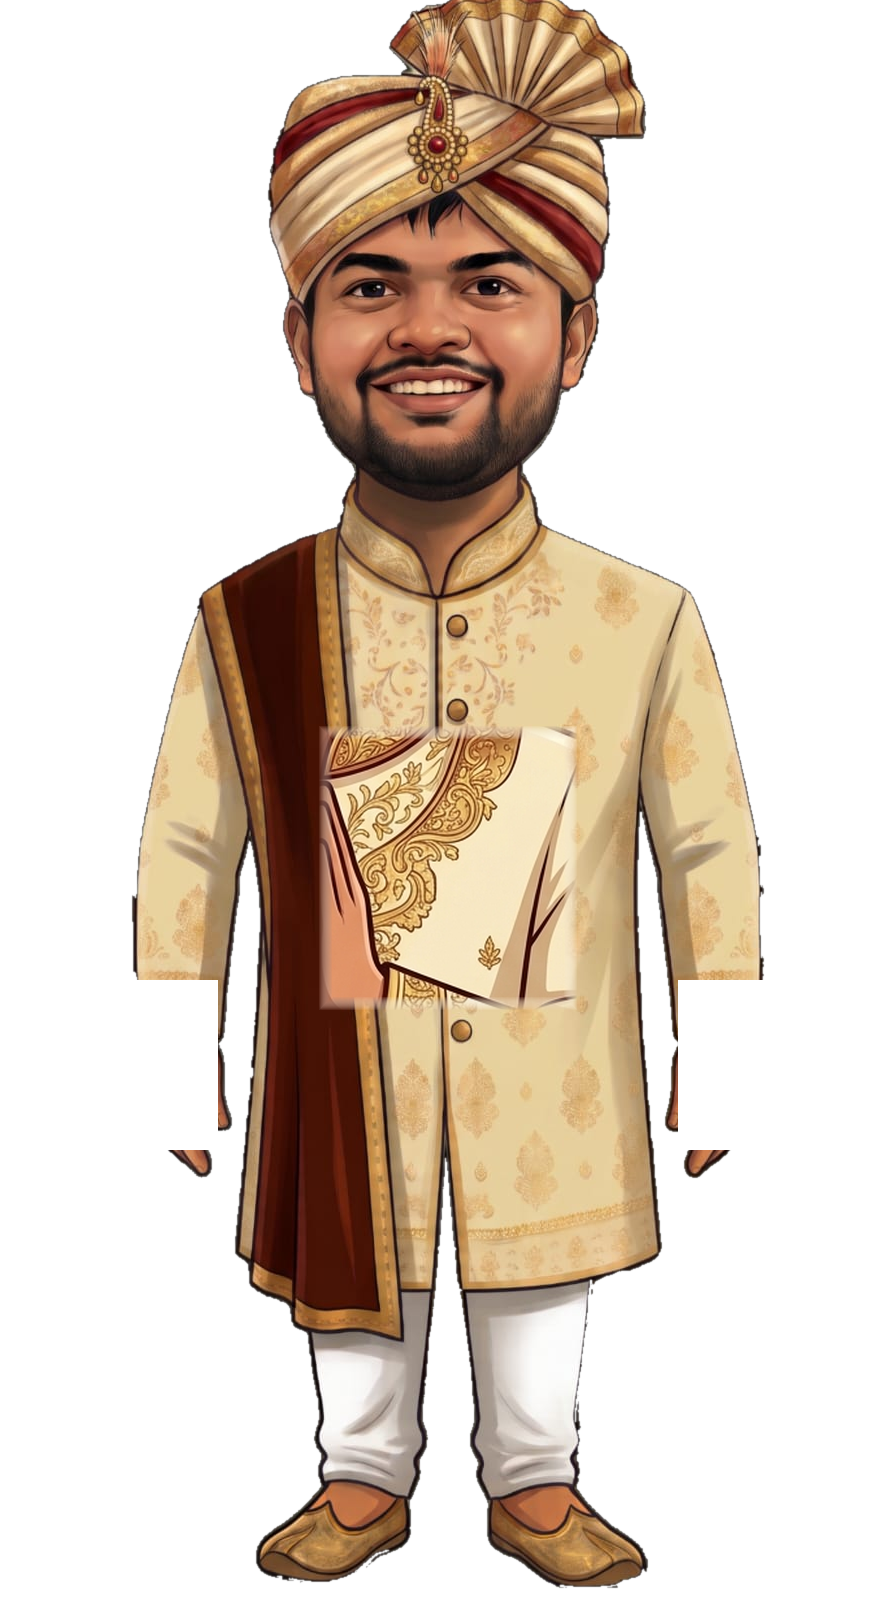
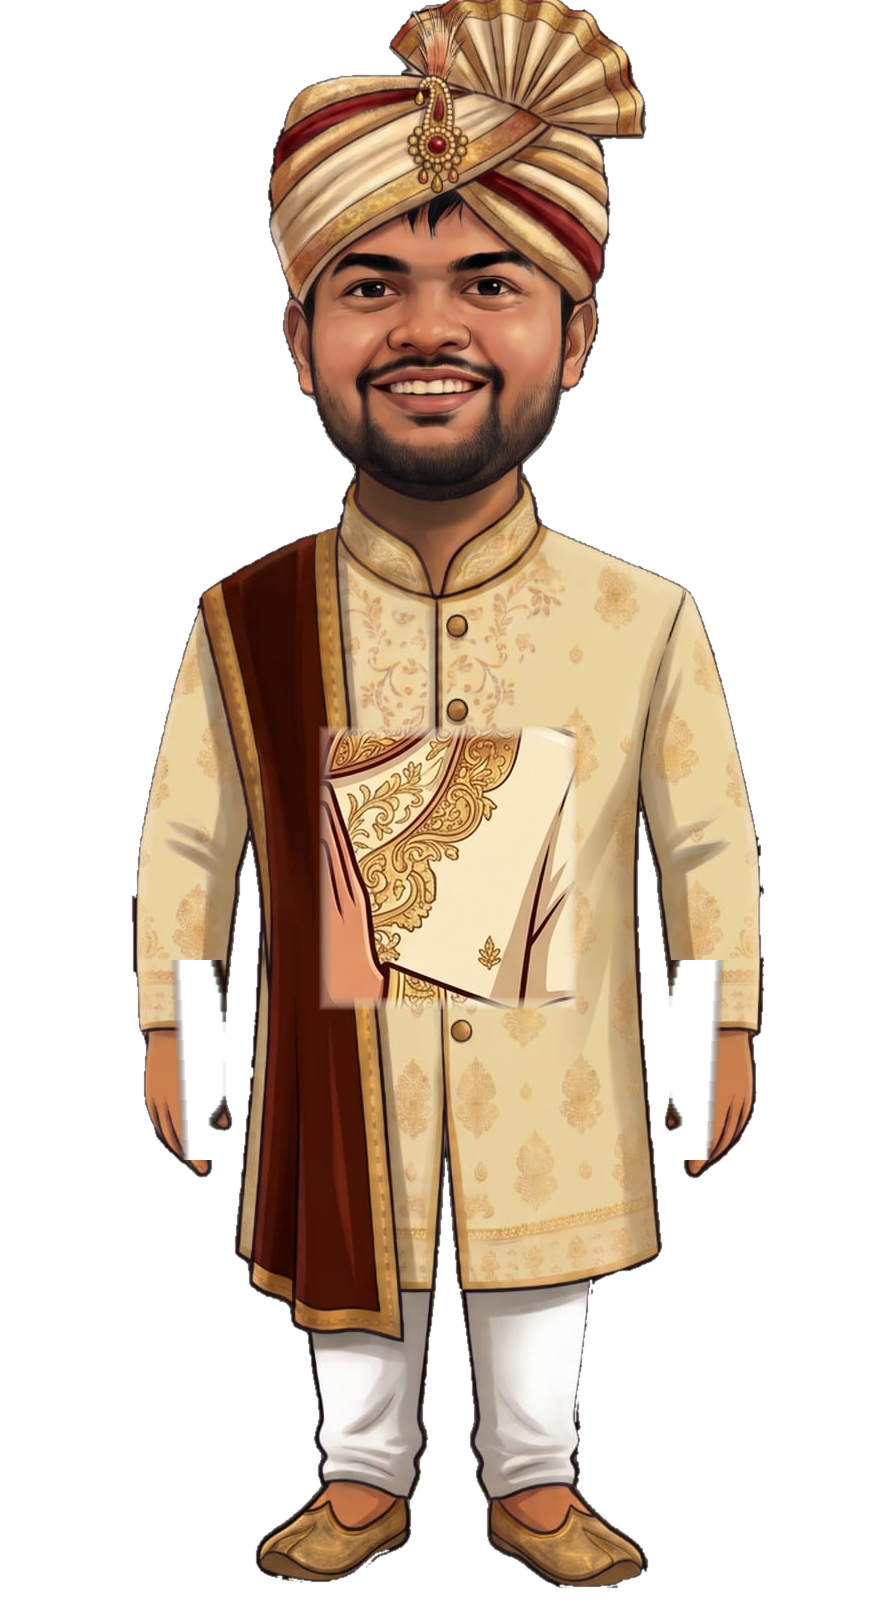
fix: resolve seam cuts, torso notches, and connect authentic couple bow caricature

Changed region(s): [[0.75, 0.5938, 0.875, 0.7188], [0.1562, 0.5938, 0.25, 0.75]]

diff --git a/index.html b/index.html
@@ -759,25 +759,27 @@
 
     @keyframes cinema-waist-bow {
       0% {
-        transform: perspective(700px) rotateX(0deg) translateY(0);
+        transform: translateY(10px) scale(0.97);
+        opacity: 0.95;
       }
       20% {
-        transform: perspective(700px) rotateX(0deg) translateY(0);
+        transform: translateY(0) scale(1);
+        opacity: 1;
       }
       45% {
-        /* Deep, visible welcoming bow from waist */
-        transform: perspective(700px) rotateX(24deg) translateY(30px) scale(0.96);
+        /* Gentle, respectful welcoming bow pulse */
+        transform: translateY(14px) scale(0.98);
       }
       72% {
-        /* Hold the deep welcoming bow */
-        transform: perspective(700px) rotateX(24deg) translateY(30px) scale(0.96);
+        /* Hold respectful welcoming bow */
+        transform: translateY(14px) scale(0.98);
       }
       88% {
-        /* Rise back upright */
-        transform: perspective(700px) rotateX(0deg) translateY(0) scale(1);
+        /* Return smoothly */
+        transform: translateY(0) scale(1);
       }
       100% {
-        transform: perspective(700px) rotateX(0deg) translateY(0) scale(1);
+        transform: translateY(0) scale(1);
       }
     }
 
@@ -1844,7 +1846,7 @@
     <div class="cinema-card">
       <div class="cinema-glow"></div>
       <div class="cinema-couple-box">
-        <img src="images/couple_standing.png" alt="Pooja & Mayank Welcoming Bow" class="cinema-couple-standing" />
+        <img src="images/couple_bow.png" alt="Pooja & Mayank Welcoming Bow" class="cinema-couple-standing" />
       </div>
       <div class="cinema-welcome-text font-serif">Welcome to our Wedding Celebration!</div>
     </div>
